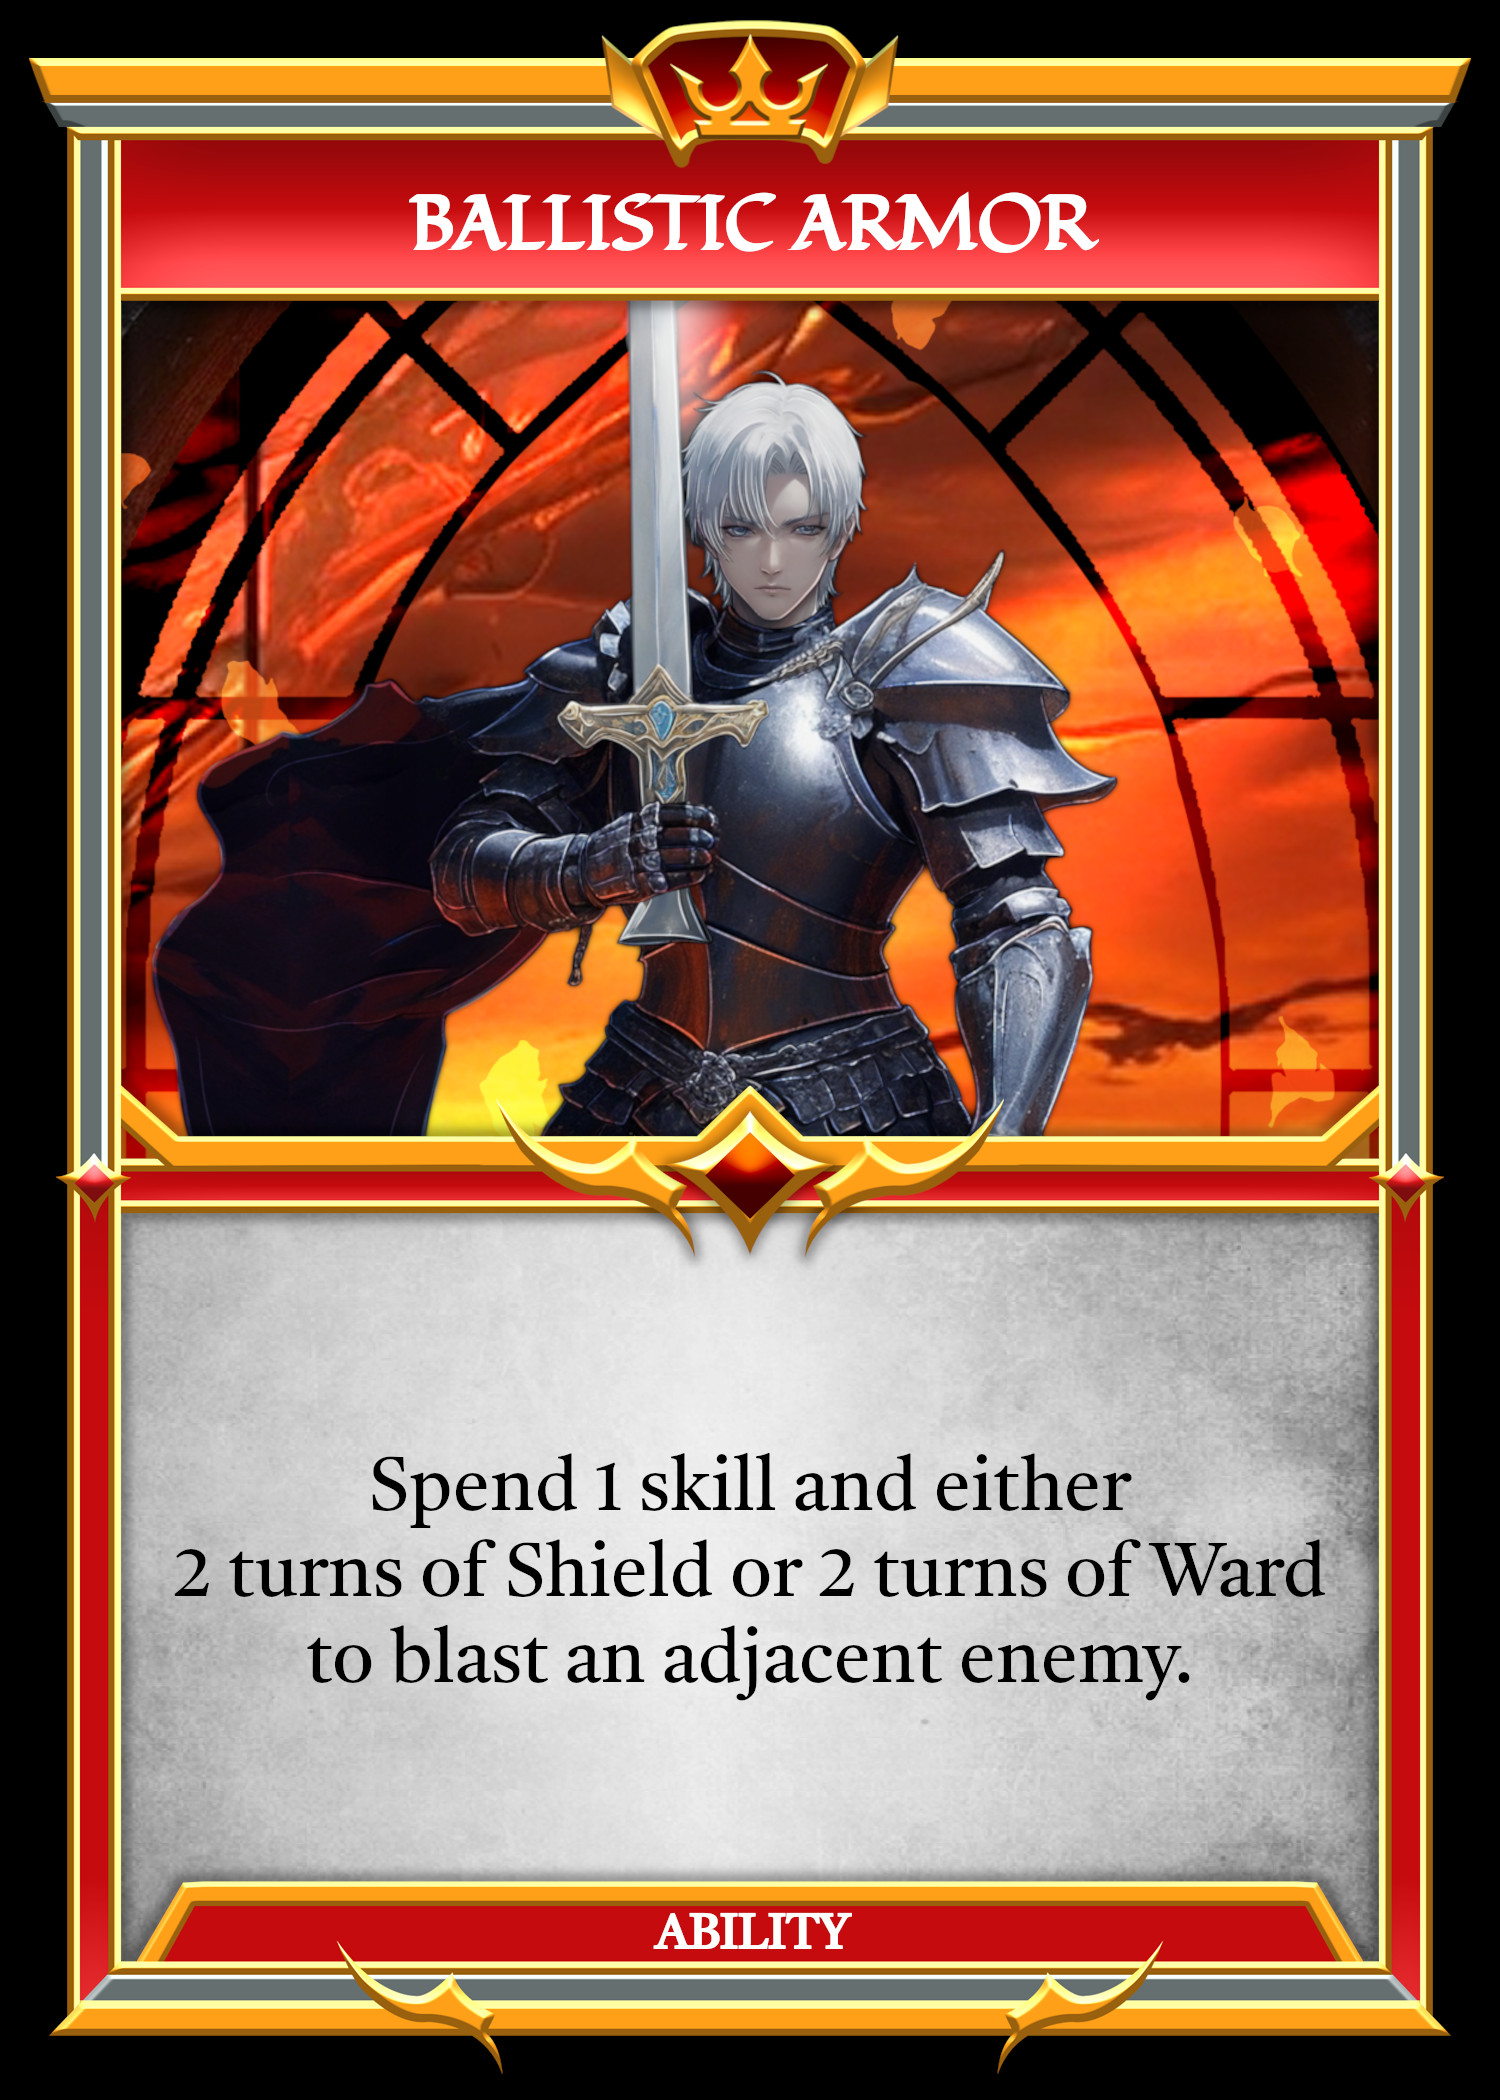
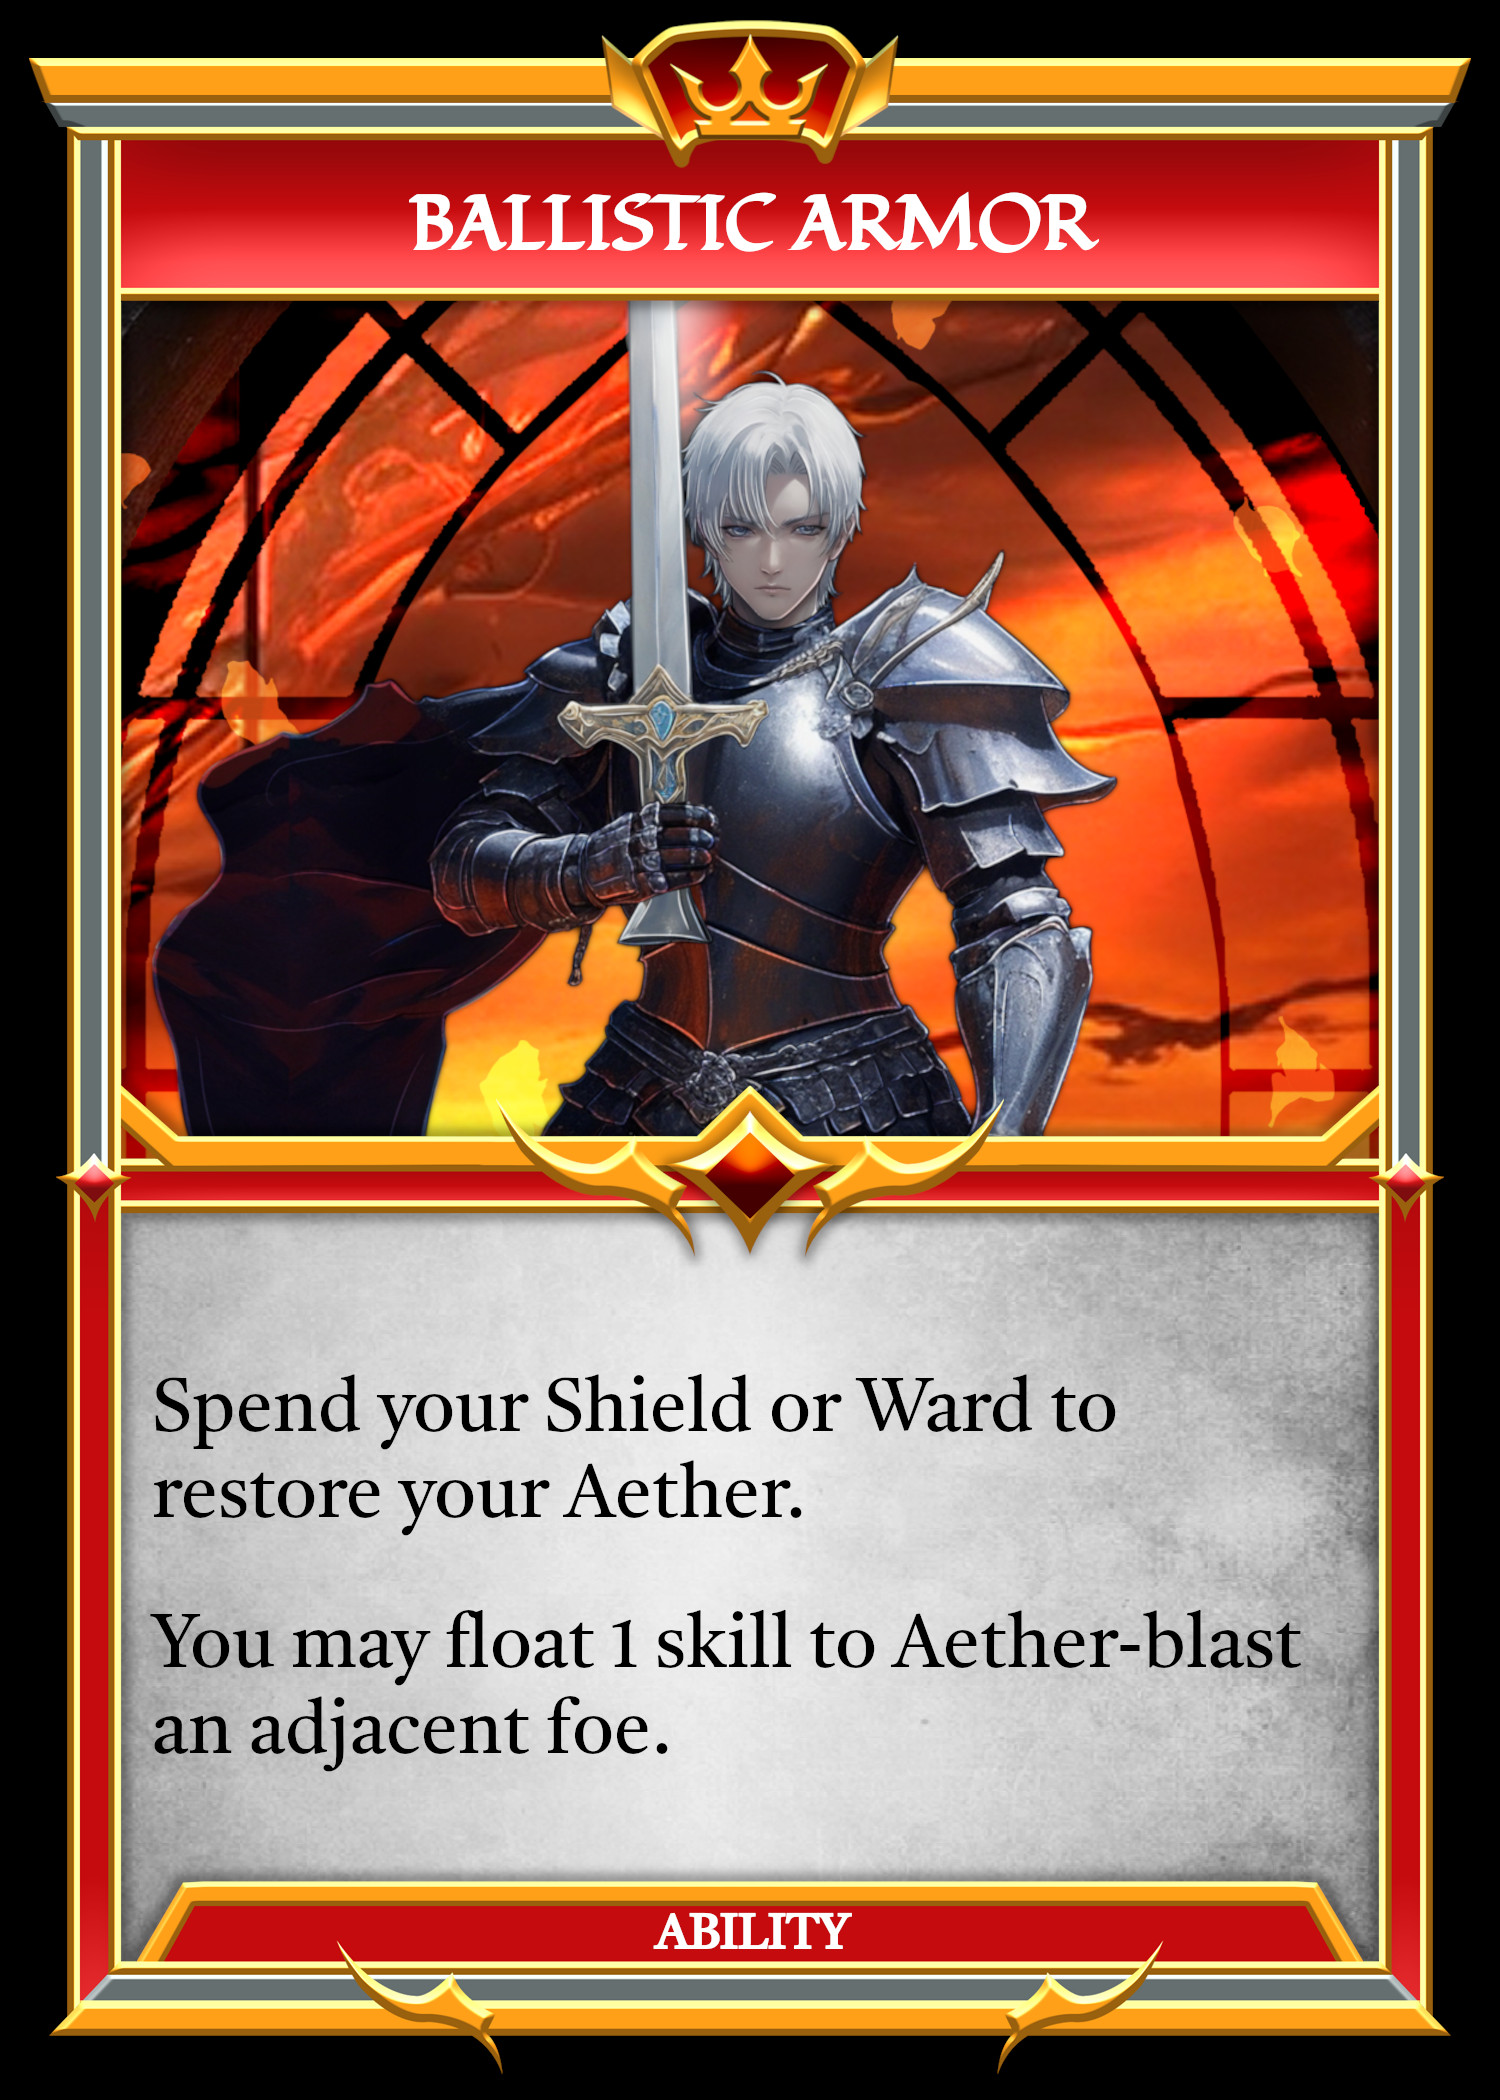
reworked ZipAndZap & Ballistic Armor

Changed region(s): [[0.092, 0.65, 0.8893, 0.8357]]

diff --git a/src/hooks/useUnitAbilityEffects.jsx b/src/hooks/useUnitAbilityEffects.jsx
@@ -18,6 +18,7 @@ export const useUnitAbilityEffects = () => {
     getVacant2SpaceZones,
     getZonesWithAllies,
     getZonesWithEnemies,
+    isDisrupted,
     isMuted,
   } = useRecurringEffects();
 
@@ -718,6 +719,24 @@ export const useUnitAbilityEffects = () => {
 
     unit.temporary.usedBallisticArmor = true;
 
+    if (
+      getZonesWithEnemies(unit, 1).length > 0 &&
+      newGameState[unit.player].skillHand.length > 0 &&
+      !isDisrupted(unit, 2)
+    ) {
+      newGameState.currentResolution.push({
+        resolution: "Unit Ability",
+        resolution2: "Ballistic Armor2",
+        unit: unit,
+        details: {
+          reason: "Ballistic Armor",
+          restriction: null,
+          title: "Ballistic Armor",
+          message: "You may float 1 skill to Aether-blast an adjacent foe.",
+        },
+      });
+    }
+
     newGameState.currentResolution.push({
       resolution: "Unit Ability",
       resolution2: "Ballistic Armor1",
@@ -728,19 +747,26 @@ export const useUnitAbilityEffects = () => {
       },
     });
 
-    newGameState.currentResolution.push({
-      resolution: "Discard Skill",
-      unit: unit,
-      player: unit.player,
-      canSkip: false,
-      details: {
-        title: "Ballistic Armor",
-        message:
-          "Spend 1 skill and either 2 turns Shield or 2 turns of Ward to blast an adjacent foe.",
-        restriction: null,
-        reason: "Ballistic Armor",
-      },
-    });
+    return newGameState;
+  };
+
+  const ballisticArmor2 = (unitInfo) => {
+    let newGameState = JSON.parse(JSON.stringify(localGameState));
+    let unit = newGameState[unitInfo.player].units[unitInfo.unitIndex];
+
+    //end "Ballistic Armor3" resolution
+    newGameState.currentResolution.pop();
+
+    unit.aether = 0;
+
+    enterSelectUnitMode(
+      getZonesWithEnemies(unit, 1),
+      unit,
+      newGameState,
+      null,
+      "aether-blast",
+      null
+    );
 
     return newGameState;
   };
@@ -867,6 +893,7 @@ export const useUnitAbilityEffects = () => {
     auraAmplication1,
     brandish1,
     ballisticArmor1,
+    ballisticArmor2,
     flourish1,
     flourish2,
     ambrosia1,

diff --git a/src/hooks/UseCurrentResolution.jsx b/src/hooks/UseCurrentResolution.jsx
@@ -145,6 +145,7 @@ const UseCurrentResolution = (props) => {
     auraAmplication1,
     brandish1,
     ballisticArmor1,
+    ballisticArmor2,
     flourish1,
     flourish2,
     ambrosia1,
@@ -1421,6 +1422,26 @@ const UseCurrentResolution = (props) => {
             </>
           );
 
+        case "Ballistic Armor2":
+          return (
+            <>
+              {self === lastRes.unit.player && !props.hideModal && (
+                <FloatSkill
+                  unit={lastRes.unit}
+                  details={lastRes.details}
+                  updateFirebase={props.updateFirebase}
+                  hideOrRevealModale={props.hideOrRevealModale}
+                />
+              )}
+            </>
+          );
+
+        case "Ballistic Armor3":
+          if (self === lastRes.unit.player) {
+            props.updateLocalState(ballisticArmor2(lastRes.unit));
+          }
+          break;
+
         case "Activating Flourish":
           if (self === lastRes.unit.player) {
             props.updateLocalState(flourish1(lastRes.unit));
@@ -2330,20 +2351,6 @@ const UseCurrentResolution = (props) => {
             props.updateLocalState(applySkill("zipAndZap2", lastRes.unit));
           }
           break;
-
-        case "Zip And Zap3":
-          return (
-            <>
-              {self === lastRes.unit.player && !props.hideModal && (
-                <YouMayNoYes
-                  unit={lastRes.unit}
-                  details={lastRes.details}
-                  updateFirebase={props.updateFirebase}
-                  hideOrRevealModale={props.hideOrRevealModale}
-                />
-              )}
-            </>
-          );
 
         case "Zip And ZapR1":
           if (self === lastRes.unit.player) {

diff --git a/src/hooks/useSkillEffects.jsx b/src/hooks/useSkillEffects.jsx
@@ -1314,40 +1314,9 @@ export const useSkillEffects = () => {
 
     newGameState.currentResolution.push({
       resolution: "Lightning Skill",
-      resolution2: "Zip And Zap2",
-      unit: unit,
-    });
-
-    newGameState.currentResolution.push({
-      resolution: "Lightning Skill",
       resolution2: "Zip And Zap1",
       unit: unit,
     });
-
-    return newGameState;
-  };
-
-  const zipAndZap2 = (unitInfo) => {
-    let newGameState = JSON.parse(JSON.stringify(localGameState));
-    let unit = newGameState[unitInfo.player].units[unitInfo.unitIndex];
-
-    //end "Zip And Zap2" resolution
-    newGameState.currentResolution.pop();
-
-    if (unit !== null && !isMuted(unit) && unit.charge > 0) {
-      newGameState.currentResolution.push({
-        resolution: "Lightning Skill",
-        resolution2: "Zip And Zap3",
-        unit: unit,
-        details: {
-          reason: "Zip and Zap Shield",
-          title: "Zip and Zap",
-          message: "You may spend 1 Charge to gain Shield for 2 turns.",
-          no: "Skip",
-          yes: "Shield",
-        },
-      });
-    }
 
     return newGameState;
   };
@@ -2698,8 +2667,6 @@ export const useSkillEffects = () => {
         return chainLightning3(a, b);
       case "zipAndZap1":
         return zipAndZap1(a, b);
-      case "zipAndZap2":
-        return zipAndZap2(a);
       case "zipAndZapR2":
         return zipAndZapR2(a);
       case "thunderThaumaturge1":

diff --git a/src/components/modals/SelectCustomChoice.jsx b/src/components/modals/SelectCustomChoice.jsx
@@ -170,10 +170,10 @@ const SelectCustomChoice = (props) => {
       break;
 
     case "Ballistic Armor":
-      canFirstChoice = unit.enhancements.shield > 1;
-      canSecondChoice = unit.enhancements.ward > 1;
-      ChoiceFirstMessage = "Spend 2 turns of Shield.";
-      ChoiceSecondMessage = "Spend 2 turns of Ward.";
+      canFirstChoice = unit.enhancements.shield > 0;
+      canSecondChoice = unit.enhancements.ward > 0;
+      ChoiceFirstMessage = "Spend your Shield.";
+      ChoiceSecondMessage = "Spend your Ward.";
       break;
 
     case "Sow and Reap":
@@ -568,19 +568,12 @@ const SelectCustomChoice = (props) => {
 
       case "Ballistic Armor":
         if (selectedChoice === 1) {
-          unit.enhancements.shield -= 2;
+          delete unit.enhancements.shield;
         } else {
-          unit.enhancements.ward -= 2;
+          delete unit.enhancements.ward;
         }
 
-        enterSelectUnitMode(
-          getZonesWithEnemies(unit, 1),
-          unit,
-          newGameState,
-          null,
-          "blast",
-          null
-        );
+        unit.aether = 1;
         break;
 
       case "Sow and Reap":

diff --git a/src/components/modals/SelectUnitAbility.jsx b/src/components/modals/SelectUnitAbility.jsx
@@ -26,7 +26,6 @@ const SelectUnitAbility = (props) => {
   const {
     animationDelay,
     canAmplifyAura,
-    canBallisticArmor,
     canStrike,
     getVacant2SpaceZones,
     getZonesWithAllies,
@@ -330,10 +329,8 @@ const SelectUnitAbility = (props) => {
           ),
           optionText: (
             <>
-              <div>
-                ⬩Spend 1 skill and either 2 turns of Shield or 2 turns of Ward
-                to blast an adjacent foe.
-              </div>
+              <div>⬩Spend your Shield or Ward to restore your Aether.</div>
+              <div>⬩You may float 1 skill to Aether-blast an adjacent foe.</div>
             </>
           ),
         },
@@ -462,8 +459,7 @@ const SelectUnitAbility = (props) => {
           case 1:
             return (
               !unit.temporary.usedBallisticArmor &&
-              newGameState[unit.player].skillHand.length > 0 &&
-              canBallisticArmor(unit)
+              (unit.enhancements.shield > 0 || unit.enhancements.ward > 0)
             );
         }
 

diff --git a/src/hooks/useRecurringEffects.jsx b/src/hooks/useRecurringEffects.jsx
@@ -2041,18 +2041,6 @@ export const useRecurringEffects = () => {
     return false;
   };
 
-  const canBallisticArmor = (unit) => {
-    if (!canBlast(unit)) {
-      return false;
-    }
-
-    if (unit.enhancements.shield > 1 || unit.enhancements.ward > 1) {
-      return true;
-    }
-
-    return false;
-  };
-
   const canDeploy = () => {
     let newGameState = JSON.parse(JSON.stringify(localGameState));
 
@@ -4482,7 +4470,6 @@ export const useRecurringEffects = () => {
     canAscend,
     canAmplifyAura,
     canBlast,
-    canBallisticArmor,
     canDeploy,
     canDestine,
     canRaptorBlitzBlast,

diff --git a/src/components/modals/UnitInfo.jsx b/src/components/modals/UnitInfo.jsx
@@ -210,8 +210,10 @@ const UnitInfo = (props) => {
               2. Ballistic Armor (One-shot)
             </p>
             <p className="unitInfo-text-desc">
-              ⬩Spend 1 skill and either 2 turns of Shield or 2 turns of Ward to
-              blast an adjacent foe.
+              ⬩Spend your Shield or Ward to restore your Aether.
+            </p>
+            <p className="unitInfo-text-desc unitInfo-text-last">
+              ⬩You may float 1 skill to Aether-blast an adjacent foe.
             </p>
           </>
         );

diff --git a/src/components/modals/YouMayNoYes.jsx b/src/components/modals/YouMayNoYes.jsx
@@ -242,14 +242,6 @@ const YouMayNoYes = (props) => {
 
         break;
 
-      case "Zip and Zap Shield": // "Zip And Zap3"
-        unit.charge -= 1;
-        unit.enhancements.shield
-          ? (unit.enhancements.shield = Math.max(unit.enhancements.shield, 2))
-          : (unit.enhancements.shield = 2);
-        //newGameState[props.unit.player].units[props.unit.unitIndex] = unit;
-        break;
-
       case "Zip and Zap Blast": // "Zip And ZapR2"
         enterSelectUnitMode(
           getZonesWithEnemies(props.unit, 1),

diff --git a/src/components/modals/FloatSkill.jsx b/src/components/modals/FloatSkill.jsx
@@ -90,6 +90,14 @@ const FloatSkill = (props) => {
         });
         break;
 
+      case "Ballistic Armor":
+        newGameState.currentResolution.push({
+          resolution: "Unit Ability",
+          resolution2: "Ballistic Armor3",
+          unit: unit,
+        });
+        break;
+
       case "Match Made in Heaven":
         let unit1 =
           newGameState[props.details.unit1.player].units[
